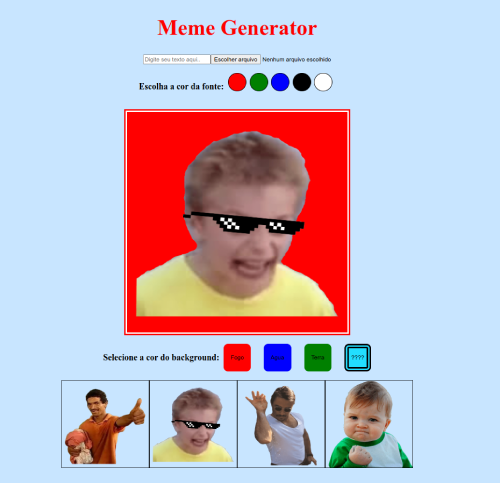
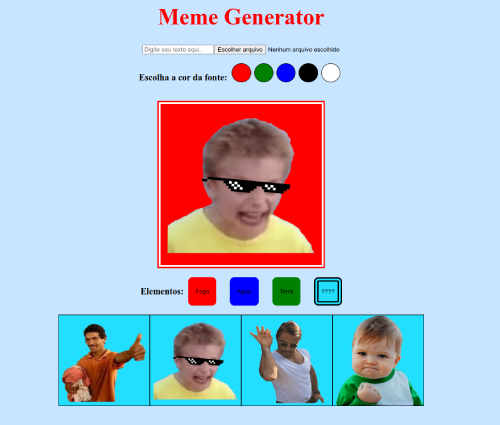
up

diff --git a/index.html b/index.html
@@ -27,34 +27,33 @@
         </section>
     </header>
 
-    <section style="border: 1px solid black;" id="meme-image-container">
-
-        <section id="meme-image"></section>
-
-        <section id="meme-text"></section>
-
-    </section>
-    <section id="butons">
-        <p id="p-background">Selecione a cor do background:</p>
-        <button style="border: 10px double rgb(255, 0, 0) ;" id="fire" type="button">Fogo</button>
-        <button style="border:  10px double rgb(0, 0, 255);" id="water" type="button">Agua</button>
-        <button style="border: 10px double rgb(0, 128, 0);" id="earth" type="button">Terra</button>
-        <button style="border: 10px double black" id="air">????</button>
-    </section>
-    <section id="memes">
-        <div id="meme1" class="meme">
-            <img class="memeimg" src="imgs/meme1.png" alt="">
-        </div>
-        <div id="meme2" class="meme">
-            <img src="imgs/meme2.png" alt="" class="memeimg">
-        </div>
-        <div id="meme3" class="meme">
-            <img src="imgs/meme3.png" alt="" class="memeimg">
-        </div>
-        <div id="meme4" class="meme">
-            <img src="imgs/meme4.png" alt="" class="memeimg">
-        </div>
-    </section>
+    <main>
+        <section style="border: 1px solid black;" id="meme-image-container">
+            <section id="meme-image"></section>
+            <section id="meme-text"></section>
+        </section>
+        <section id="butons">
+            <p id="p-background">  Elementos: </p>
+            <button style="border: 10px double rgb(255, 0, 0) ;" id="fire" type="button">Fogo</button>
+            <button style="border:  10px double rgb(0, 0, 255);" id="water" type="button">Agua</button>
+            <button style="border: 10px double rgb(0, 128, 0);" id="earth" type="button">Terra</button>
+            <button style="border: 10px double black" id="air">????</button>
+        </section>
+        <section id="memes">
+            <div id="meme1" class="meme">
+                <img class="memeimg" src="imgs/meme1.png" alt="">
+            </div>
+            <div id="meme2" class="meme">
+                <img src="imgs/meme2.png" alt="" class="memeimg">
+            </div>
+            <div id="meme3" class="meme">
+                <img src="imgs/meme3.png" alt="" class="memeimg">
+            </div>
+            <div id="meme4" class="meme">
+                <img src="imgs/meme4.png" alt="" class="memeimg">
+            </div>
+        </section>
+    </main>
 
     <script src="script.js"></script>
 </body>

diff --git a/style.css b/style.css
@@ -1,11 +1,13 @@
 body {
     background-color: rgb(200, 229, 255);
+
 }
 
 header {
     display: flex;
     flex-direction: column;
     justify-content: center;
+    margin-top: -20px;
 }
 header h1 {
     text-align: center;
@@ -60,8 +62,8 @@ header h1 {
 #meme-image-container{
     position: relative;
     margin-top: 30px;
-    height: 500px;
-    width: 500px;
+    height: 350px;
+    width: 350px;
     overflow: hidden;
     background-color: white;
     margin: 0 auto;
@@ -145,6 +147,7 @@ header h1 {
     margin-top: 20px;
     display: inline-block;
     border: 1px solid black;
+    background-color: rgb(34, 222, 255);
     width: 200px;
     height: 200px;
 }
